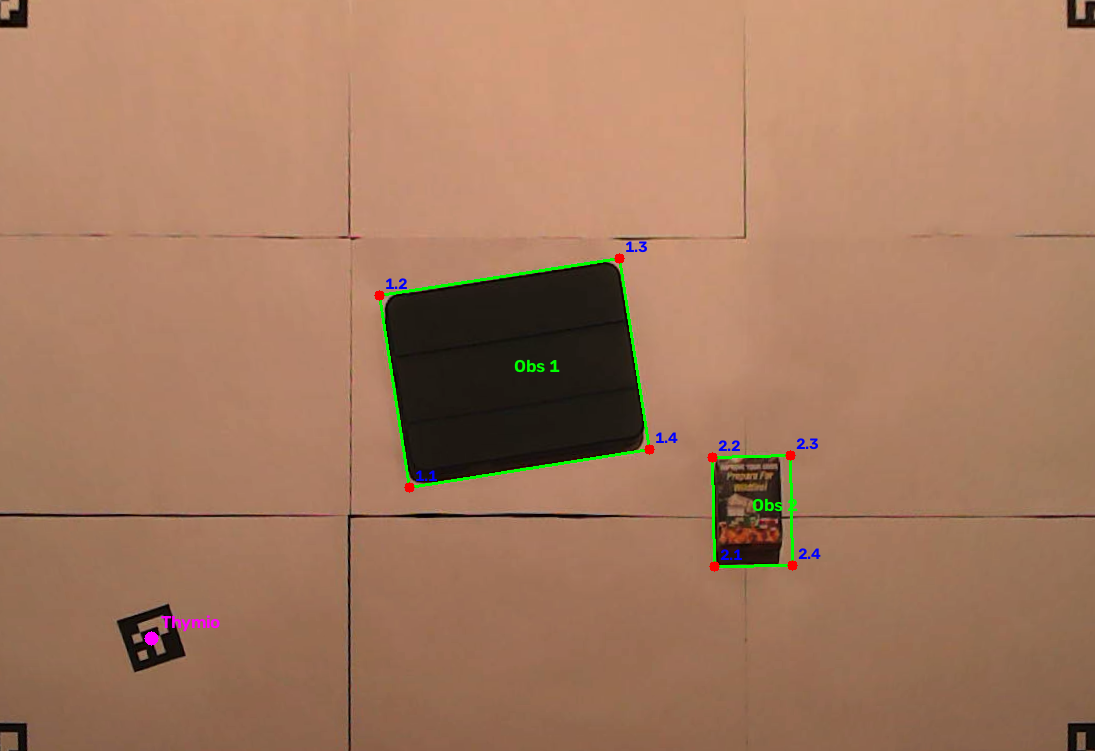
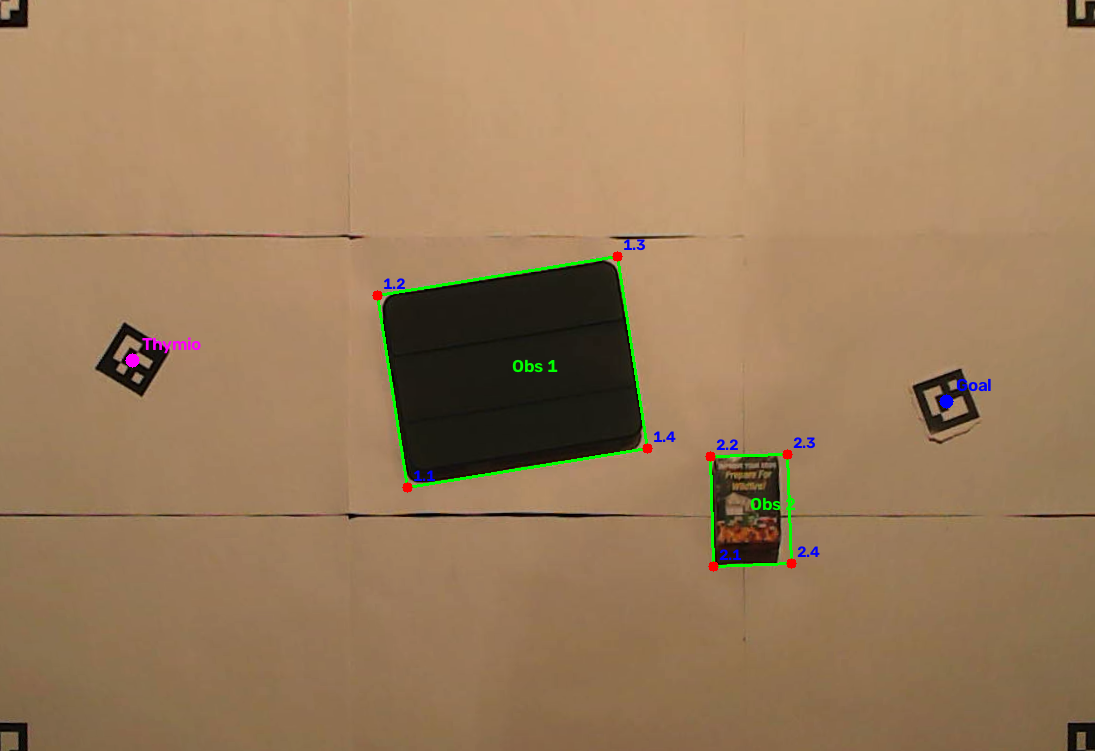
goal detection

diff --git a/Vision.py b/Vision.py
@@ -13,7 +13,8 @@ MAP_HEIGHT = round(TERRAIN_HEIGHT_MM * PIXELS_PER_MM)
 
 MARKER_ROBOT = 4
 MARKER_GOAL = 5
-CAMERA_INDEX = 1
+#CHANGE CAMERA INDEX DEPENDING ON COMPUTER
+CAMERA_INDEX = 0
 if platform.system() == "Windows":
     CAMERA_BACKEND = cv2.CAP_DSHOW
 elif platform.system() == "Darwin":
